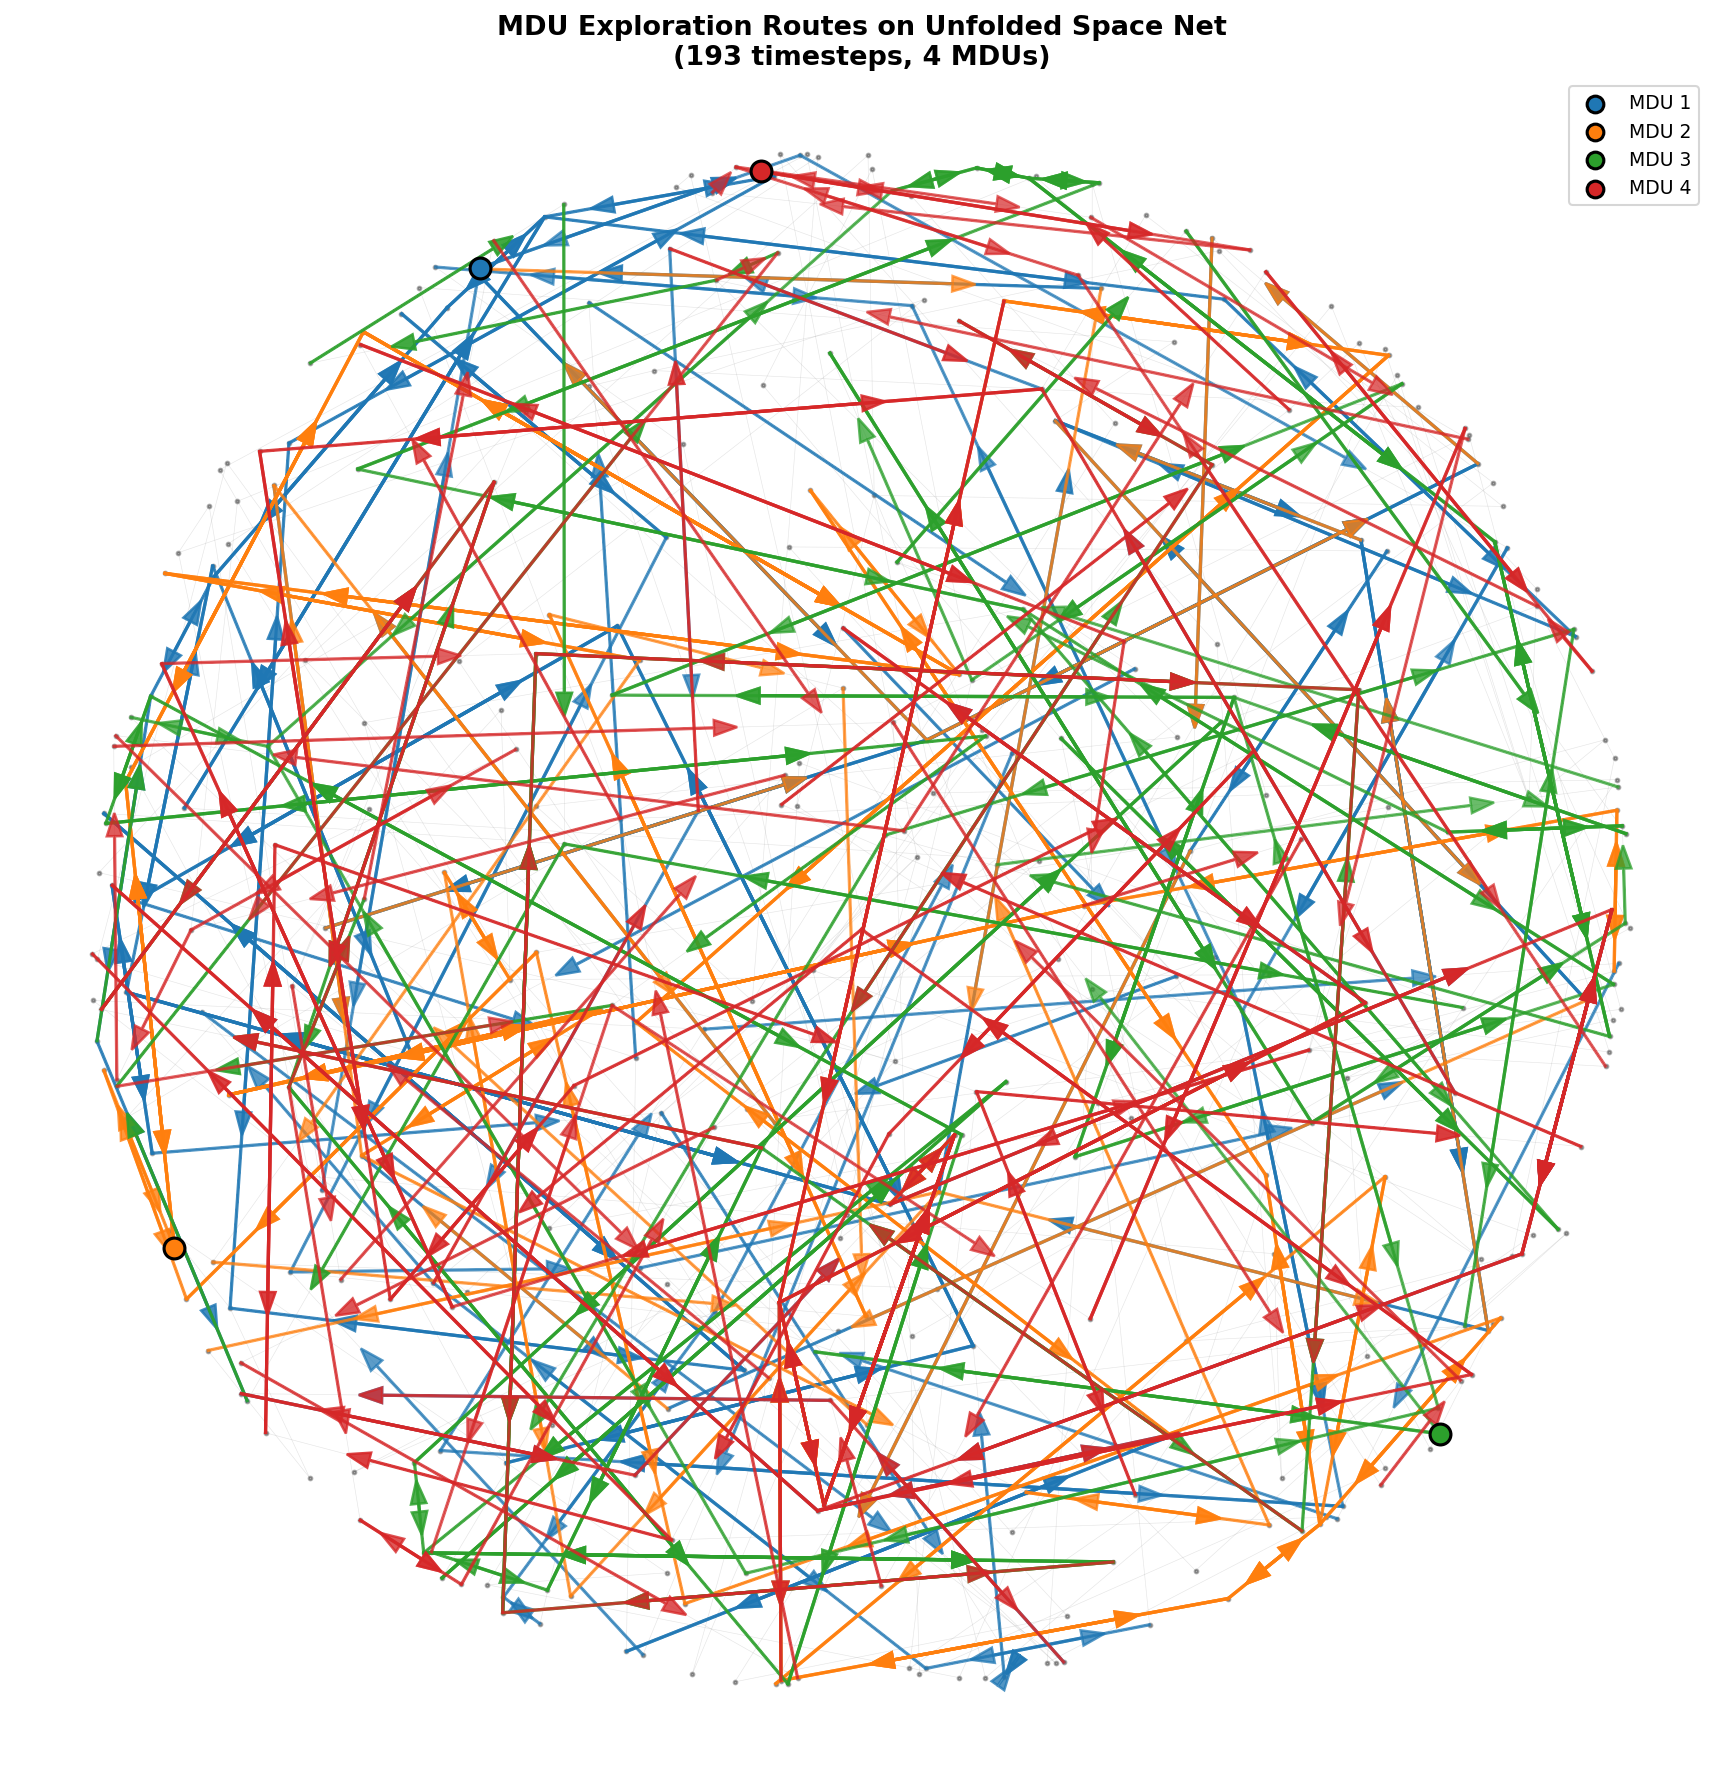
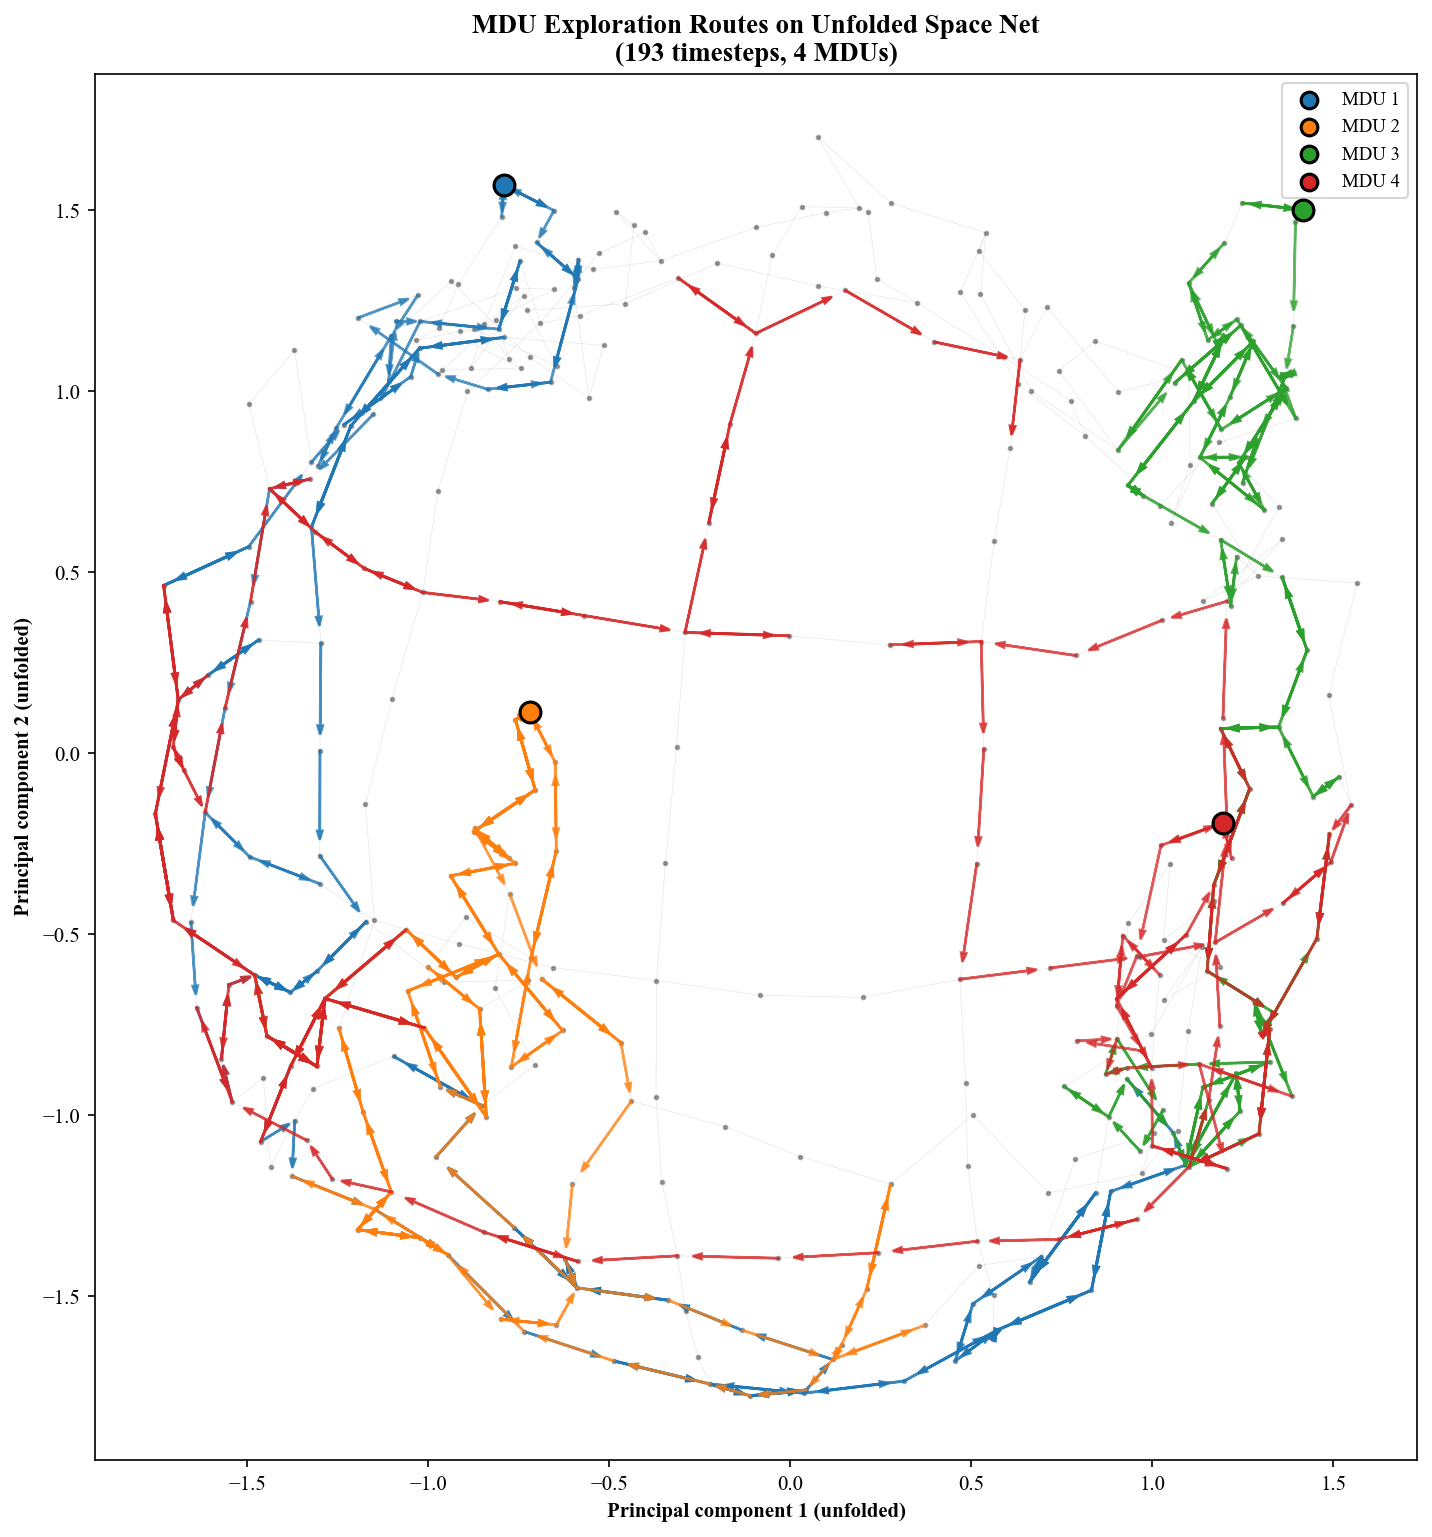
Fix topology map: PCA projection for true square grid aspect ratio

Changed region(s): [[0.0, 0.0937, 0.9525, 0.9993], [0.2765, 0.0, 0.7374, 0.0625], [0.8911, 0.0312, 1.0, 0.1561]]

diff --git a/analysis/plot_topology.py b/analysis/plot_topology.py
@@ -2,26 +2,21 @@
 """
 Unfolded 2D topology map with MDU exploration routes.
 
-Two modes:
-  --layout bfs     BFS cardinal-direction unfolding (best visual result)
-  --layout spring  Spring-force unfolding (connectivity-preserving)
+Projects the 3D space net positions to 2D via PCA, which naturally
+recovers the square grid aspect ratio of the FNS net.
 
 Usage:
     python analysis/plot_topology.py --tag FINAL_v15
-    python analysis/plot_topology.py --tag FINAL_v15 --layout bfs
 """
 
-import sys, os, argparse
-import numpy as np
+import sys, os, argparse, numpy as np
 import matplotlib
 matplotlib.use("Agg")
 import matplotlib.pyplot as plt
-from collections import deque
 
 sys.path.insert(0, os.path.join(os.path.dirname(__file__), ".."))
 from src.run_manager import find_run
 
-# ── Font: bold Times New Roman labels/titles, regular tick numbers ──
 plt.rcParams["font.family"] = "serif"
 plt.rcParams["font.serif"] = ["Times New Roman"]
 plt.rcParams["mathtext.fontset"] = "stix"
@@ -32,129 +27,79 @@ plt.rcParams["font.weight"] = "normal"
 COLORS_MDU = plt.cm.tab10(np.linspace(0, 1, 10))
 
 
-def build_layout_bfs(net_edges, N):
-    """BFS from a degree-2 corner node using physical adjacency.
+def compute_2d_layout(positions):
+    """PCA projection of 3D net positions to 2D.
 
-    Places nodes on a 2D grid by trying cardinal directions
-    for each unvisited neighbor. This was the original layout
-    that produced the cleanest visual result.
+    The FNS net is a square grid folded around the asteroid.
+    PCA finds the two principal directions of the net surface,
+    recovering the square aspect ratio.
     """
-    adj = [[] for _ in range(N)]
-    for u, v in net_edges:
-        uu, vv = int(u), int(v)
-        adj[uu].append(vv); adj[vv].append(uu)
-
-    deg2 = [i for i in range(N) if len(adj[i]) == 2]
-    start = deg2[0] if deg2 else 0
-
-    grid_pos = {}
-    visited = set()
-    queue = deque([start])
-    grid_pos[start] = (0, 0)
-    visited.add(start)
-
-    while queue:
-        u = queue.popleft()
-        ru, cu = grid_pos[u]
-        for v in adj[u]:
-            if v not in visited:
-                occupied = {grid_pos[w] for w in visited if w in grid_pos}
-                placed = False
-                for cand in [(ru - 1, cu), (ru + 1, cu), (ru, cu - 1), (ru, cu + 1)]:
-                    if cand not in occupied:
-                        grid_pos[v] = cand; visited.add(v); queue.append(v)
-                        placed = True; break
-                if not placed:
-                    r = ru + 1
-                    while (r, cu) in occupied: r += 1
-                    grid_pos[v] = (r, cu); visited.add(v); queue.append(v)
-
-    # Normalize to (0,0) origin
-    min_r = min(r for r, c in grid_pos.values())
-    min_c = min(c for r, c in grid_pos.values())
-    grid_pos = {k: (r - min_r, c - min_c) for k, (r, c) in grid_pos.items()}
-    rows = max(r for r, c in grid_pos.values()) + 1
-    cols = max(c for r, c in grid_pos.values()) + 1
-    return grid_pos, rows, cols
+    pts = np.array(positions, dtype=np.float64)
+    pts -= pts.mean(axis=0)
+    _, _, Vt = np.linalg.svd(pts, full_matrices=False)
+    proj = pts @ Vt[:2].T                                     # (N, 2)
+    # Equalize variance → square aspect ratio
+    stds = proj.std(axis=0) + 1e-8
+    proj = proj / stds
+    # Map to grid dict: node -> (row, col)
+    grid = {i: (proj[i, 1], proj[i, 0]) for i in range(len(positions))}
+    rs, cs = proj[:, 1], proj[:, 0]
+    rows = int(np.ceil(rs.max() - rs.min()) * 3) + 1
+    cols = int(np.ceil(cs.max() - cs.min()) * 3) + 1
+    return grid, rows, cols
 
 
-def build_layout_spring(net_edges, N):
-    """Spring-force graph unfolding."""
-    import networkx as nx
-    G = nx.Graph(); G.add_nodes_from(range(N))
-    G.add_edges_from([(int(u), int(v)) for u, v in net_edges])
-    pos = nx.spring_layout(G, seed=42, iterations=200, k=2.0)
-    base = {i: (pos[i][1], pos[i][0]) for i in range(N)}
-    return base, None, None
-
-
-def draw_topology(ax, grid_pos, net_edges, mdu_nodes, N_mdus, T,
-                  rows=None, cols=None, show_axes=False):
+def draw(ax, grid, net_edges, mdu_nodes, N_mdus, T):
     """Draw unfolded topology with MDU routes."""
-    # Edges
     for u, v in net_edges:
         uu, vv = int(u), int(v)
-        if uu in grid_pos and vv in grid_pos:
-            r1, c1 = grid_pos[uu]; r2, c2 = grid_pos[vv]
+        if uu in grid and vv in grid:
+            r1, c1 = grid[uu]; r2, c2 = grid[vv]
             ax.plot([c1, c2], [r1, r2], color=(0.6, 0.6, 0.6, 0.25),
                     linewidth=0.3, zorder=1)
 
-    # Nodes
-    nodes = sorted(grid_pos.keys())
-    rs = [grid_pos[i][0] for i in nodes]; cs = [grid_pos[i][1] for i in nodes]
+    nodes = sorted(grid)
+    rs = [grid[i][0] for i in nodes]; cs = [grid[i][1] for i in nodes]
     ax.scatter(cs, rs, s=3, color=(0.2, 0.2, 0.2, 0.4), zorder=2)
 
-    # MDU trajectories (arrows, alpha 0.7→0.9)
     for mdu_idx in range(N_mdus):
         path = mdu_nodes[:, mdu_idx]; color = COLORS_MDU[mdu_idx]
         for t in range(T - 1):
             u, v = int(path[t]), int(path[t + 1])
-            if u == v or u not in grid_pos or v not in grid_pos:
-                continue
-            r1, c1 = grid_pos[u]; r2, c2 = grid_pos[v]
+            if u == v or u not in grid or v not in grid: continue
+            r1, c1 = grid[u]; r2, c2 = grid[v]
             alpha = 0.7 + 0.2 * (t / max(T - 2, 1))
-            dc = c2 - c1; dr = r2 - r1
-            ax.arrow(c1, r1, dc * 0.82, dr * 0.82,
-                     head_width=0.02, head_length=0.03, fc=color, ec=color,
+            dc, dr = c2 - c1, r2 - r1
+            ax.arrow(c1, r1, dc * 0.85, dr * 0.85,
+                     head_width=0.015, head_length=0.025, fc=color, ec=color,
                      alpha=alpha, linewidth=1.2, length_includes_head=True, zorder=5)
-        # Start marker
         sn = int(path[0])
-        if sn in grid_pos:
-            sr, sc = grid_pos[sn]
+        if sn in grid:
+            sr, sc = grid[sn]
             ax.scatter(sc, sr, s=100, marker="o", facecolor=color,
                        edgecolor="black", linewidth=1.5, zorder=10,
                        label=f"MDU {mdu_idx + 1}")
 
     ax.legend(loc="upper right", fontsize=9, markerscale=0.8)
     ax.set_title(f"MDU Exploration Routes on Unfolded Space Net\n"
-                 f"({T} timesteps, {N_mdus} MDUs)", fontweight="bold", fontsize=13)
-
-    if show_axes and rows and cols:
-        ax.set_xlabel("Grid column", fontweight="bold")
-        ax.set_ylabel("Grid row", fontweight="bold")
-        ax.set_xticks(range(cols)); ax.set_yticks(range(rows))
-        ax.tick_params(labelsize=8)
-    else:
-        ax.set_xlabel("X", fontweight="bold")
-        ax.set_ylabel("Y", fontweight="bold")
-
+                 f"({T} timesteps, {N_mdus} MDUs)",
+                 fontweight="bold", fontsize=13)
+    ax.set_xlabel("Principal component 1 (unfolded)", fontweight="bold")
+    ax.set_ylabel("Principal component 2 (unfolded)", fontweight="bold")
     ax.set_aspect("equal")
-    ax.invert_yaxis()
 
 
 def main():
-    p = argparse.ArgumentParser(description="Unfolded topology map with MDU routes")
+    p = argparse.ArgumentParser()
     p.add_argument("--tag", type=str, default=None)
     p.add_argument("--run", type=str, default=None)
     p.add_argument("--npz", type=str, default=None)
-    p.add_argument("--layout", choices=["bfs", "spring", "both"], default="both")
-    p.add_argument("--output-dir", type=str, default=None)
     p.add_argument("--dpi", type=int, default=150)
+    p.add_argument("--output-dir", type=str, default=None)
     args = p.parse_args()
 
     root = os.path.dirname(os.path.dirname(os.path.abspath(__file__)))
-    if args.npz:
-        npz_path = args.npz
+    if args.npz: npz_path = args.npz
     else:
         run_dir = find_run(os.path.join(root, "results"), tag=args.tag, run_name=args.run)
         if not run_dir: print("Run not found."); sys.exit(1)
@@ -162,31 +107,21 @@ def main():
 
     data = np.load(npz_path)
     mdu_nodes = data["mdu_nodes"]; net_edges = data["net_edges"]
-    T, N_mdus = mdu_nodes.shape; N_nodes = len(data["net_positions"])
-    print(f"Loaded: {T} timesteps, {N_mdus} MDUs")
+    positions = data["net_positions"]
+    T, N_mdus = mdu_nodes.shape
+
+    grid, rows, cols = compute_2d_layout(positions)
+    print(f"Layout: {rows}×{cols}, {len(grid)} nodes")
 
     out_dir = args.output_dir or os.path.join(root, "analysis", "outputs")
     os.makedirs(out_dir, exist_ok=True)
     tag = args.tag or os.path.splitext(os.path.basename(npz_path))[0]
 
-    if args.layout in ("bfs", "both"):
-        grid_pos, rows, cols = build_layout_bfs(net_edges, N_nodes)
-        print(f"BFS layout: {rows}x{cols}, {len(grid_pos)} nodes")
-        fig, ax = plt.subplots(figsize=(max(cols / 4, 16), max(rows / 4, 12)))
-        draw_topology(ax, grid_pos, net_edges, mdu_nodes, N_mdus, T,
-                      rows, cols, show_axes=True)
-        out = os.path.join(out_dir, f"topology_bfs_{tag}.png")
-        plt.savefig(out, dpi=args.dpi, bbox_inches="tight"); plt.close()
-        print(f"Saved: {out}")
-
-    if args.layout in ("spring", "both"):
-        pos, _, _ = build_layout_spring(net_edges, N_nodes)
-        print(f"Spring layout: {len(pos)} nodes")
-        fig, ax = plt.subplots(figsize=(16, 12))
-        draw_topology(ax, pos, net_edges, mdu_nodes, N_mdus, T)
-        out = os.path.join(out_dir, f"topology_spring_{tag}.png")
-        plt.savefig(out, dpi=args.dpi, bbox_inches="tight"); plt.close()
-        print(f"Saved: {out}")
+    fig, ax = plt.subplots(figsize=(14, 12))
+    draw(ax, grid, net_edges, mdu_nodes, N_mdus, T)
+    out = os.path.join(out_dir, f"topology_map_{tag}.png")
+    plt.savefig(out, dpi=args.dpi, bbox_inches="tight"); plt.close()
+    print(f"Saved: {out}")
 
 
 if __name__ == "__main__":
